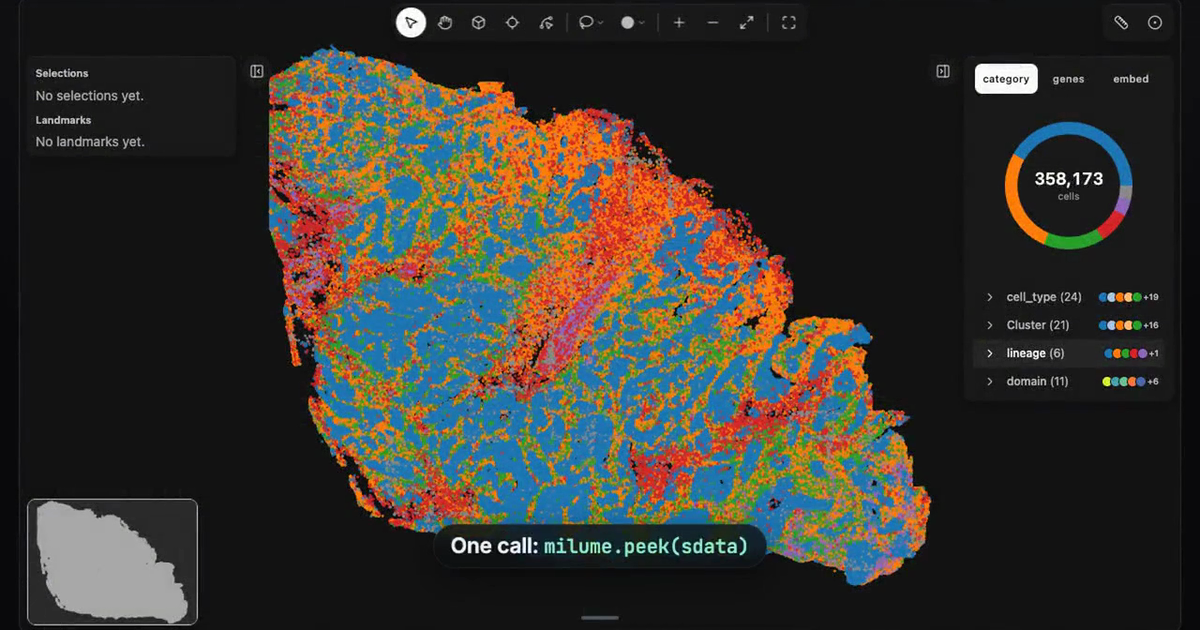
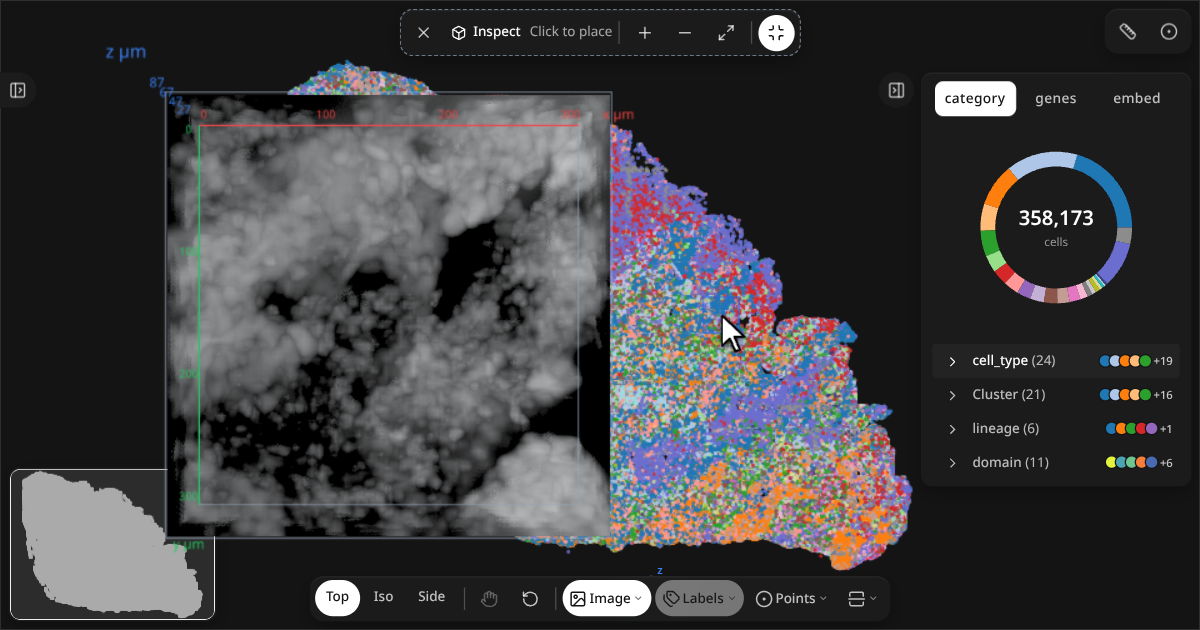
Social card v2: Inspect hover on colon tissue at 1.25x chrome, visible cursor

diff --git a/website/landing/index.html b/website/landing/index.html
@@ -24,7 +24,7 @@
     <meta property="og:image:height" content="630" />
     <meta
       property="og:image:alt"
-      content="milume widget showing 358,173 cells colored by category across a tissue section"
+      content="milume Inspect tool hovering a colon tissue section: a live 3D preview of the image stack beside 358,173 cells colored by category"
     />
     <meta property="og:video" content="https://ckmah.github.io/milume/assets/milume-montage-web.mp4" />
     <meta property="og:video:secure_url" content="https://ckmah.github.io/milume/assets/milume-montage-web.mp4" />
@@ -40,7 +40,7 @@
     <meta name="twitter:image" content="https://ckmah.github.io/milume/assets/milume-social-card.png" />
     <meta
       name="twitter:image:alt"
-      content="milume widget showing 358,173 cells colored by category across a tissue section"
+      content="milume Inspect tool hovering a colon tissue section: a live 3D preview of the image stack beside 358,173 cells colored by category"
     />
     <link rel="preconnect" href="https://fonts.googleapis.com" />
     <link rel="preconnect" href="https://fonts.gstatic.com" crossorigin />
